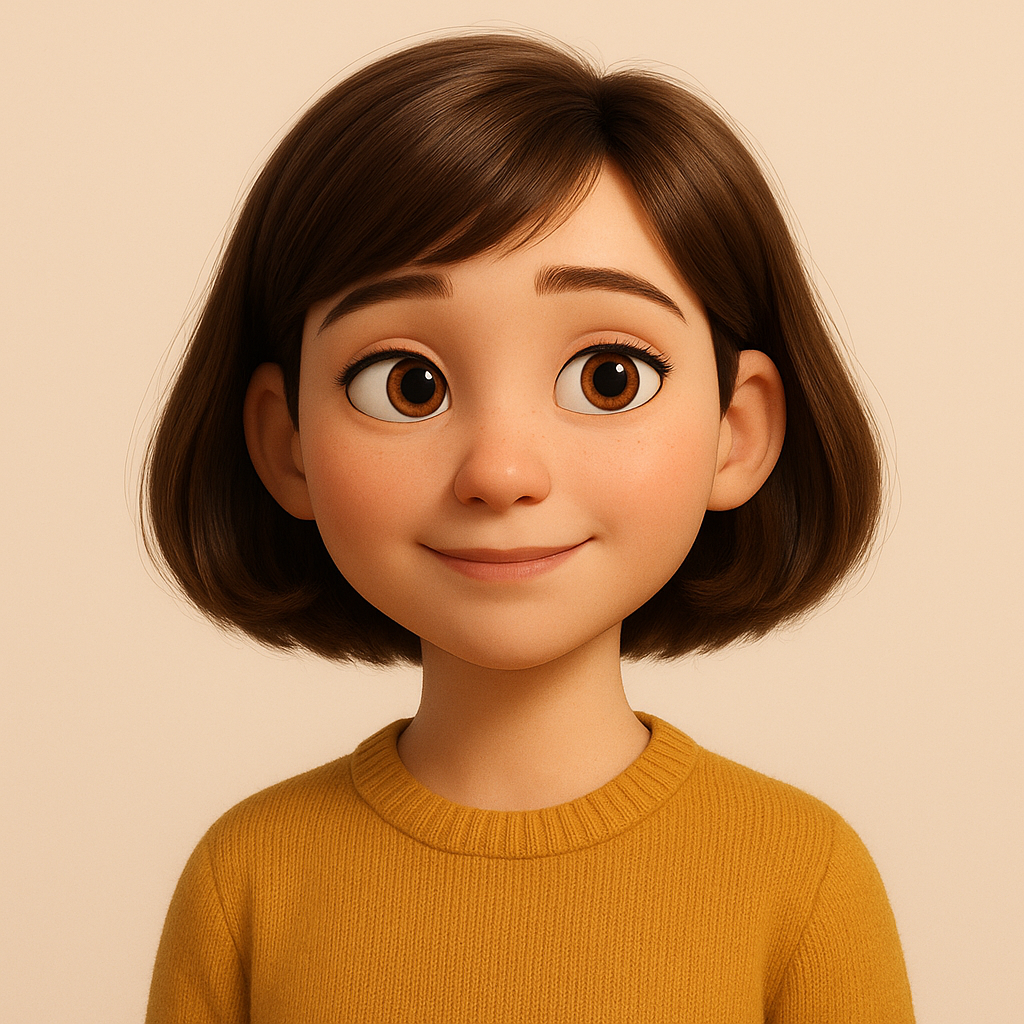
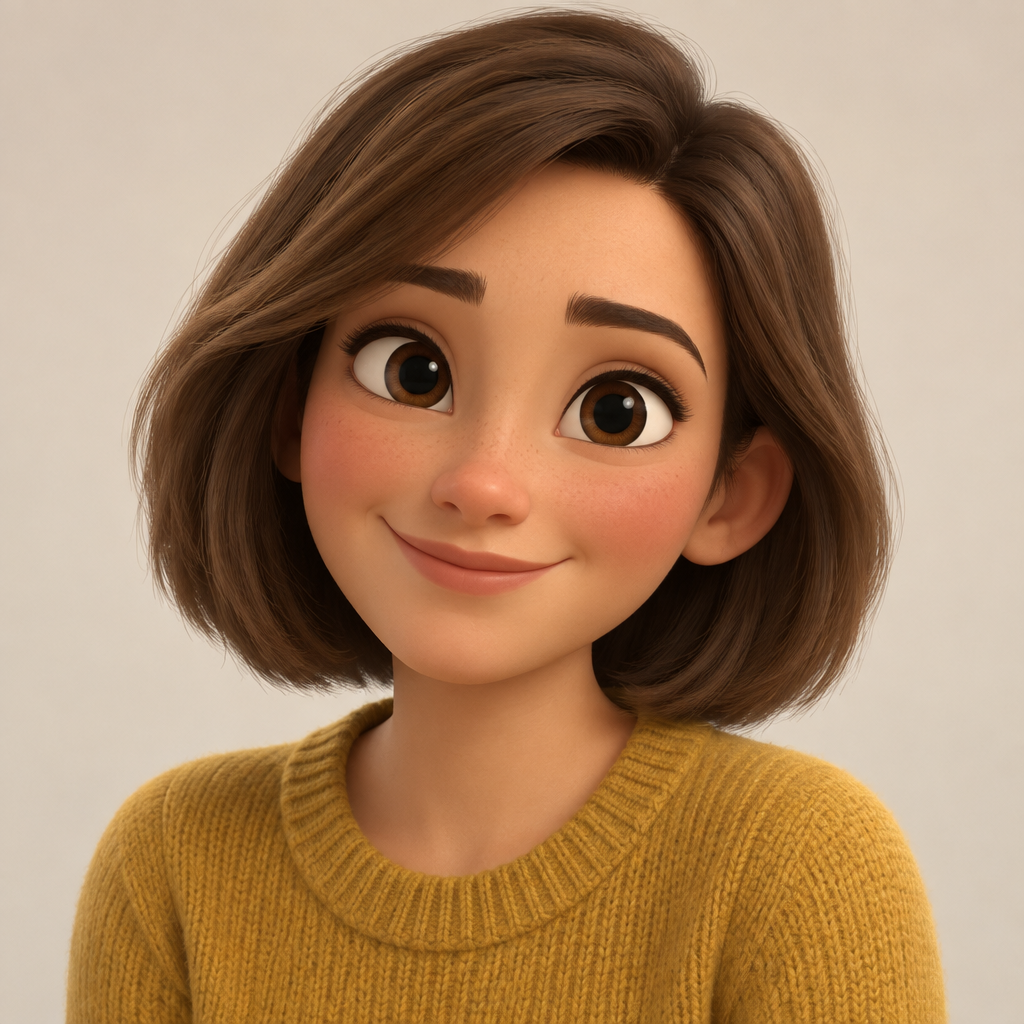
deck: regenerate image-model assets with gpt-image-2.5-sunburst

diff --git a/deck/img/mock/INDEX.md b/deck/img/mock/INDEX.md
@@ -8,7 +8,14 @@ avatars and the villa photo, called out below. Room code `RDV-7F3K`, bot handle
 `@Agentpush_agentik_bot`, public host `rdv.clipgen.co` are consistent across
 every asset.
 
-## Cast portraits (OpenAI gpt-image-1)
+## Cast portraits (OpenAI gpt-image-2.5-sunburst)
+
+Generated with `gpt-image-2.5-sunburst` — it worked on the first call (HTTP
+200), so none of the documented fallbacks (`gpt-image-2.5-flare` →
+`gpt-image-2` → `gpt-image-1`) were needed. All three image-model outputs
+below (two avatars + villa) were generated in the same batch of prompts with
+this one model, for style consistency with each other and with the three
+existing deck illustrations.
 
 - `avatar-julie.png` — Julie, square 1024×1024 Pixar-style portrait, brown bob,
   mustard sweater. Matches the cast established in `p2-two-phones.png` etc.
@@ -18,6 +25,17 @@ every asset.
 - `villa-photo.png` — Basque-country surf villa, cropped to a 4:3 chat-bubble
   photo. Embedded in `tg-conflict.png`, `wa-julie-conflict.png`,
   `tg-tom-conflict.html`, `deliverable-gate.png`, and the artifact document.
+
+**Text-legibility probe (one call, not reused elsewhere):** asked
+`gpt-image-2.5-sunburst` for a phone screenshot of a chat bubble containing
+the short French sentence "Budget 12k max, train uniquement." The text came
+back genuinely clean and correctly spelled, along with several other UI
+strings in the same image ("Aujourd'hui", "10:24", "En ligne", "Message") —
+a real capability jump from gpt-image-1, which reliably garbled text at this
+length. This does not change anything in this asset set: every chat mock
+here is still HTML rendered by headless Chrome, because that's what let me
+fix a wrong euro amount or a badge with one edit instead of a re-roll. Worth
+knowing for future work where exact copy isn't required.
 
 ## Deck assets (in storyboard order)
 
